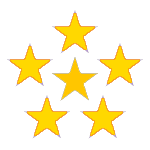
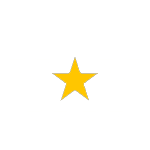
Update the menu list view to look nicer (imho). And added another method for white rating stars

diff --git a/urls_reviewr/MenuListViewController.m b/urls_reviewr/MenuListViewController.m
@@ -136,8 +136,8 @@
     cell.reviewsLabel.textColor = [UIColor whiteColor];
     cell.reviewsLabel.font = [UIFont boldSystemFontOfSize:12];
     cell.reviewsLabel.text = [NSString stringWithFormat:@"%d reviews", selectedMenuItem.reviewers];
-    cell.ratingImage.image = [UIImage imageNamed:[selectedMenuItem ratingImageName]];
-    cell.ratingLabel.textColor = [UIColor blackColor];
+    cell.ratingImage.image = [UIImage imageNamed:[selectedMenuItem ratingImageNameinWhite]];
+    cell.ratingLabel.textColor = [UIColor whiteColor];
     cell.ratingLabel.font = [UIFont boldSystemFontOfSize:12];
     cell.ratingLabel.text = [NSString stringWithFormat:@"%@/5", [selectedMenuItem stringFormattedRating]];
     cell.shouldIndentWhileEditing = YES;

diff --git a/urls_reviewr/MenuItem.m b/urls_reviewr/MenuItem.m
@@ -51,6 +51,14 @@
     return [NSString stringWithFormat:@"round-rating%@-150.png", starRating];
 }
 
+- (NSString *)ratingImageNameinWhite {
+    
+    NSString *starRating = [self stringFormattedRating];
+    starRating = [starRating stringByReplacingOccurrencesOfString:@"." withString:@""];
+    
+    return [NSString stringWithFormat:@"round-rating%@-150-white.png", starRating];
+}
+
 - (NSString *)stringFormattedRating {
     float floatValue = round(self.rating.floatValue * 2.0f) / 2;
     NSString *starRating = [NSString stringWithFormat:@"%.1f", floatValue];

diff --git a/urls_reviewr/MenuItem.h b/urls_reviewr/MenuItem.h
@@ -30,6 +30,7 @@
 + (NSMutableArray *)menuItemWithArray:(NSArray *)array;
 + (MenuItem *)fromJSON:(NSDictionary *)JsonDictionary;
 - (NSString *)ratingImageName;
+- (NSString *)ratingImageNameinWhite;
 - (NSString *)stringFormattedRating;
 
 @end
